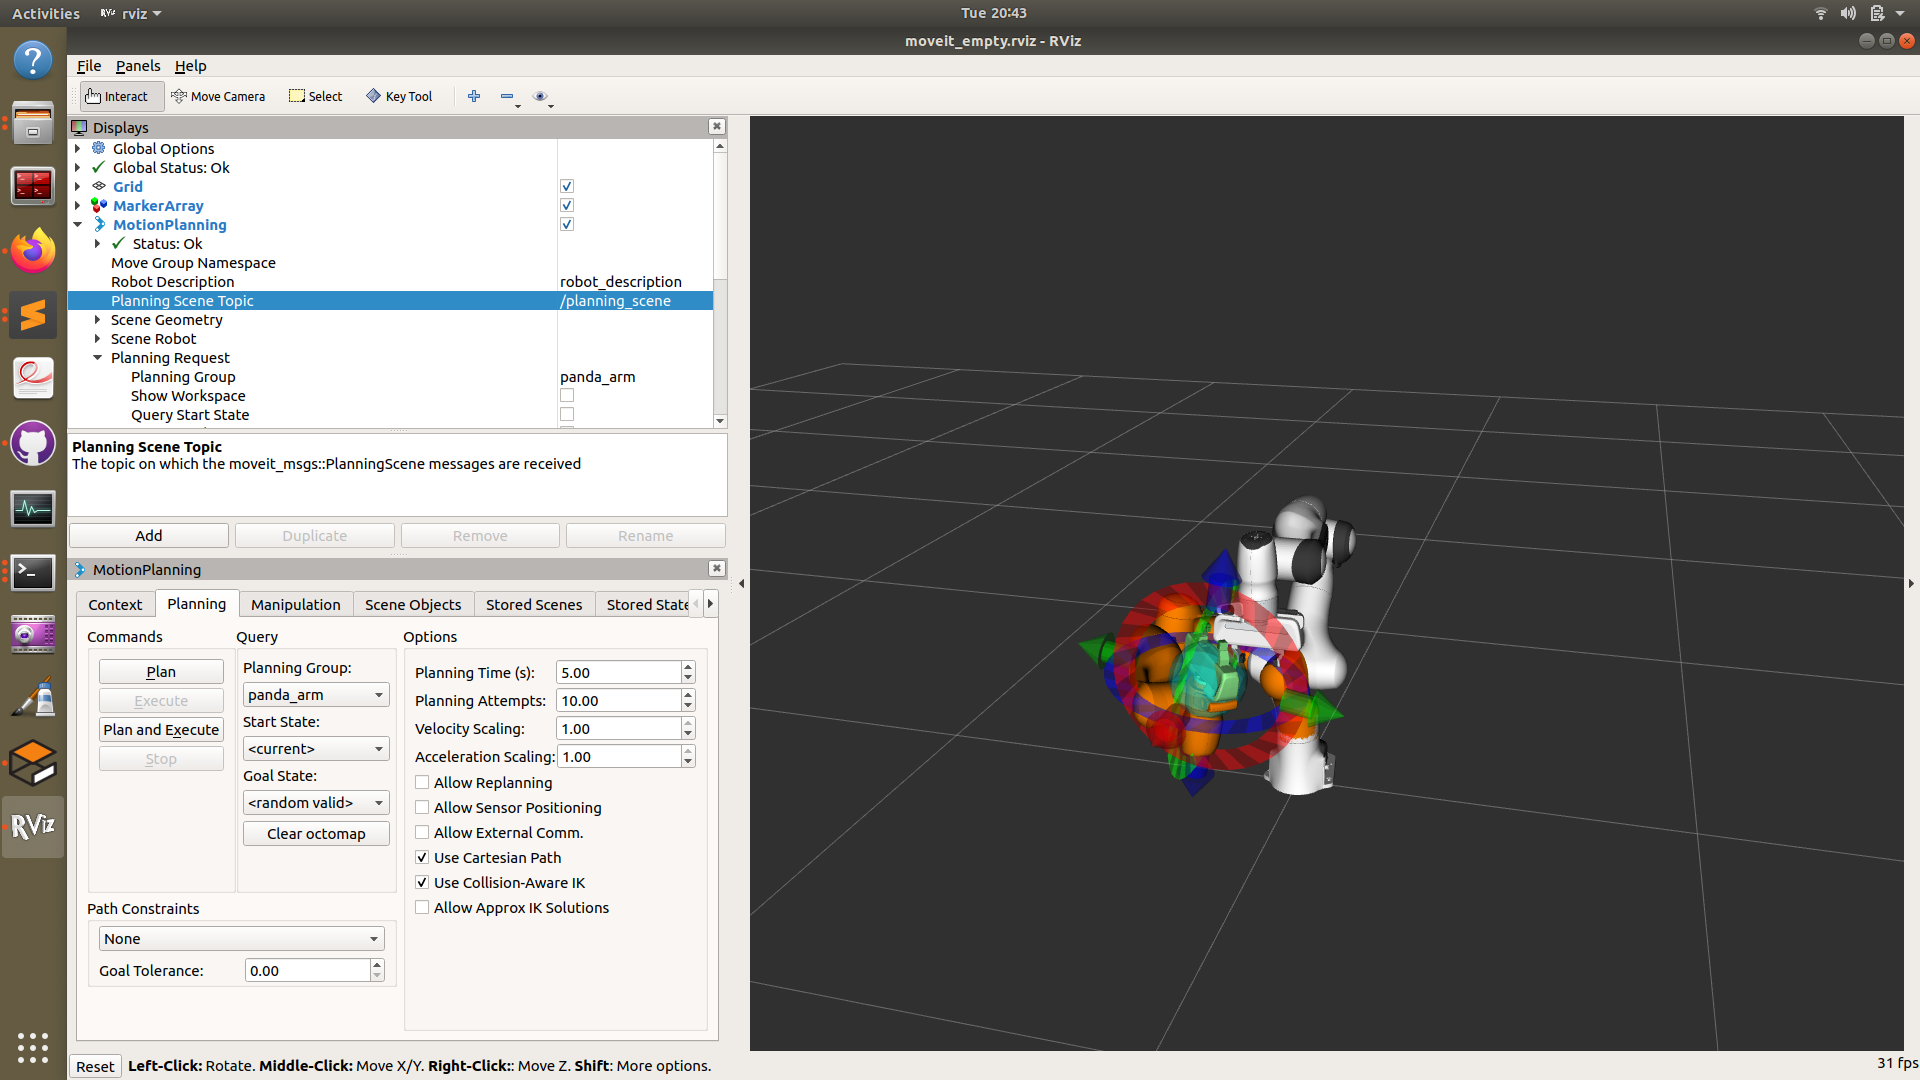
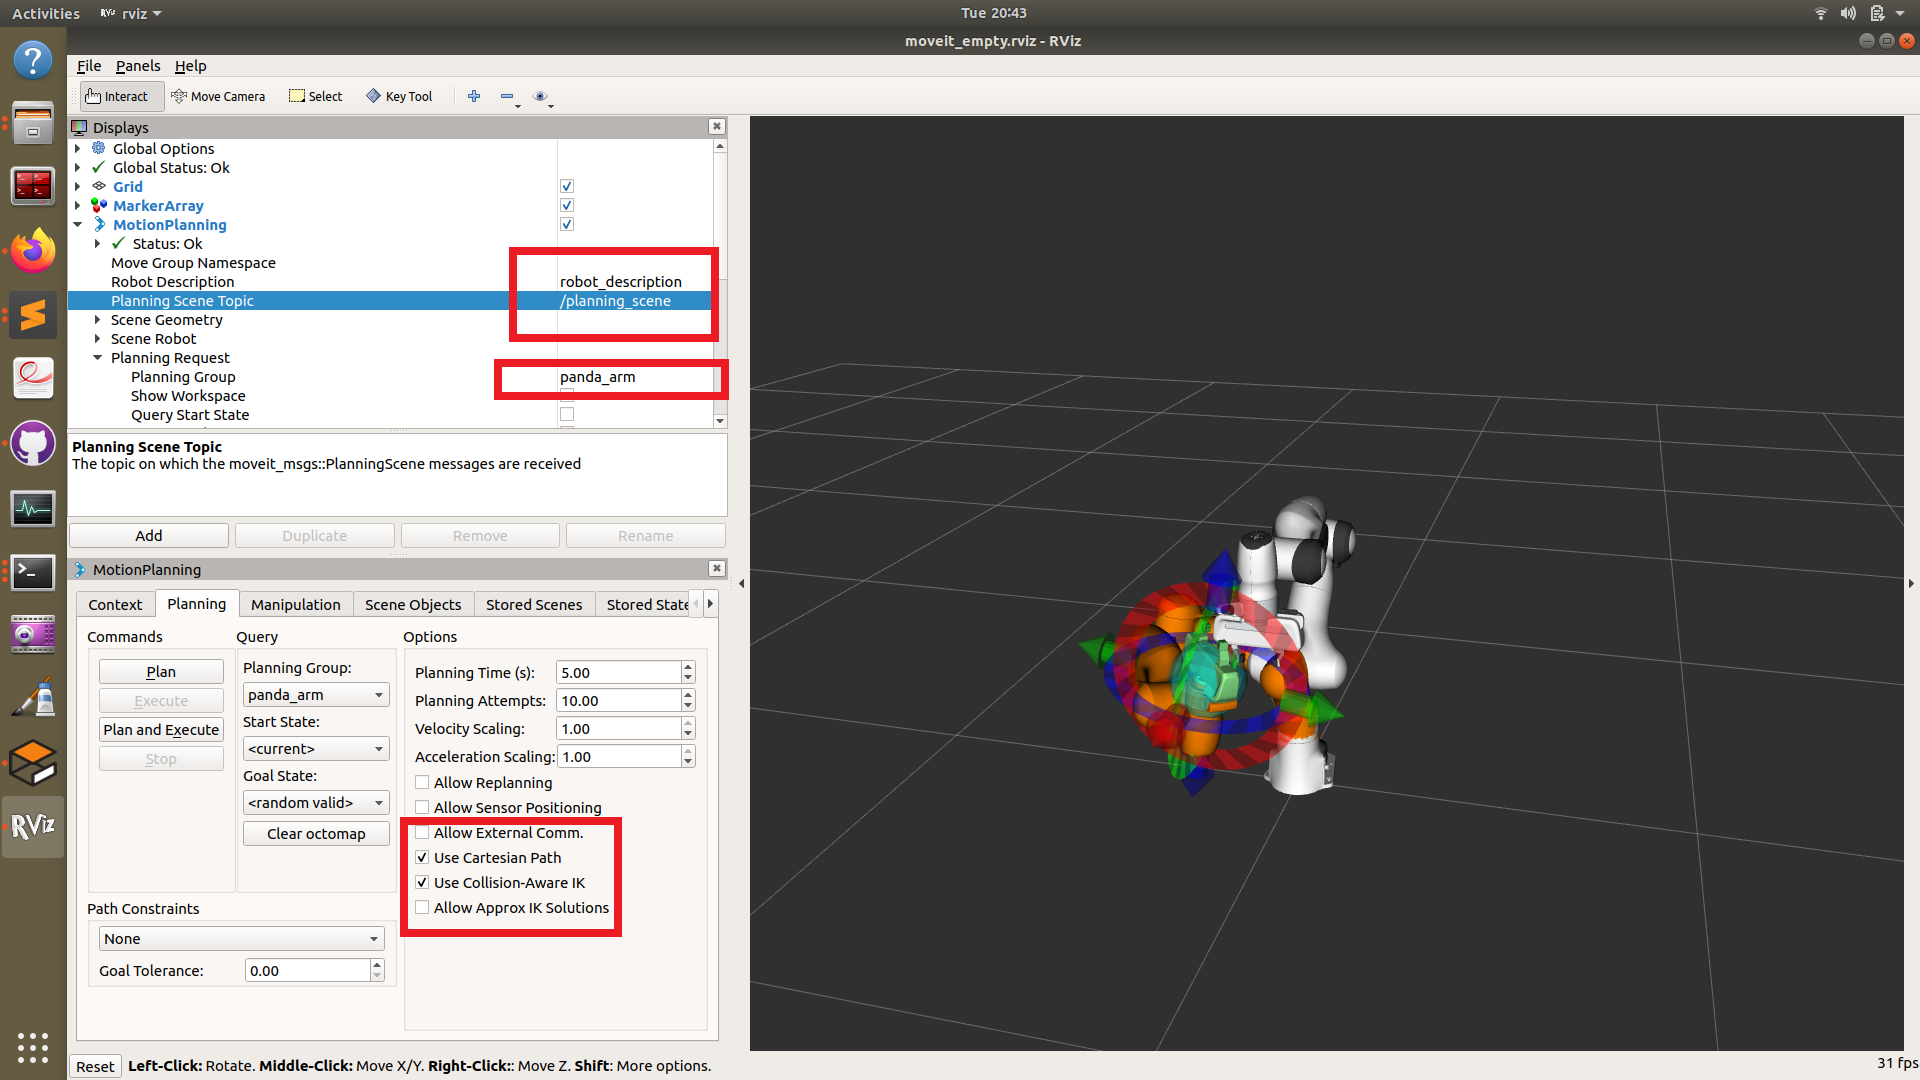
updated installation instructions

Changed region(s): [[0.25, 0.2139, 0.4062, 0.3972], [0.1875, 0.7639, 0.3438, 0.8861], [0.2188, 0.7333, 0.3125, 0.7639]]

diff --git a/docs/gazebo_simulations.rst b/docs/gazebo_simulations.rst
@@ -3,13 +3,13 @@ Simulating the robot
 
 Before testing on the real robot, it is vital to test your code on a simulator. We use Gazebo to visulise the movement of the Panda Emika robot to see if it behaves properly. Form experience, IF and ONLY if it works in the simulation is there a REMOTE chance that your code will work on the actual robot. 
 
-Word of advice: simulate, simulate, simulate. Until everything works perfectly in the simulation.
+Word of advice: **Simulate, Simulate, Simulate**. Until everything works perfectly in the simulation.
 
 
 Note that the actual Franka Emika robot costs several thousand Euros, and you will have a very limited time with the actual robot. You can save a lot of time by simulating everything on your computer. By simulating, you can potentially avoid getting the robot to do unexpected things. E.g spin around and smash into the wall behind. It would be a very expensive error.
 
-Running Gazebo
-----------------------
+Starting up your simulation
+-----------------------------
 Open five terminals and run the following commands in each:
 
 Run Roscore, the master messaging core
@@ -35,10 +35,7 @@ Now open up Rviz, and open up the Movit motion planner plugin used for motion pl
     source devel/setup.bash
     roslaunch panda_moveit_config demo.launch rviz_tutorial:=true
 
-Now you need to activate motion planning using the Movit plugin.
-You will have to run a motion planning move from the RVIZ gui, by opening the open planning tab. Then set the //TODO put in user group.
-
-
+Now you need to activate motion planning using the Movit plugin. Add motion Motion Planning in the ``Add`` button. Then make sure ``Planning Scene Topic`` is set to ``/planning_scene`` . Also, set ``Planning Request`` to ``panda_arm`` . Under the ``Planning`` tab, make sure ``Use Cartesian Path`` is selected. You can set it up as shown in the image below.
 
 
 

diff --git a/docs/getting_start.rst b/docs/getting_start.rst
@@ -3,20 +3,15 @@ Getting Started
 
 We will now get you started by showing all the setup steps you will need to install the simulation software.
 
-The primary components you will need is:
-
-1. ROS Melodic
-2. Gazebo
-
-
-
 Set Up
 -------------------------
 
 
 Installing ROS
 -------------------------
-It is assumed that you do not have ROS installed on your Ubuntu OS. The code we use here is tested on ROS Melodic and the following instructions show the installation steps for ROS Melodic.
+.. note::
+
+    It is assumed that you do not have ROS installed on your Ubuntu OS. The code we use here is tested on ROS Melodic and the following instructions show the installation steps for ROS Melodic.
 
 First, make sure your Debian package index is up-to-date:
 
